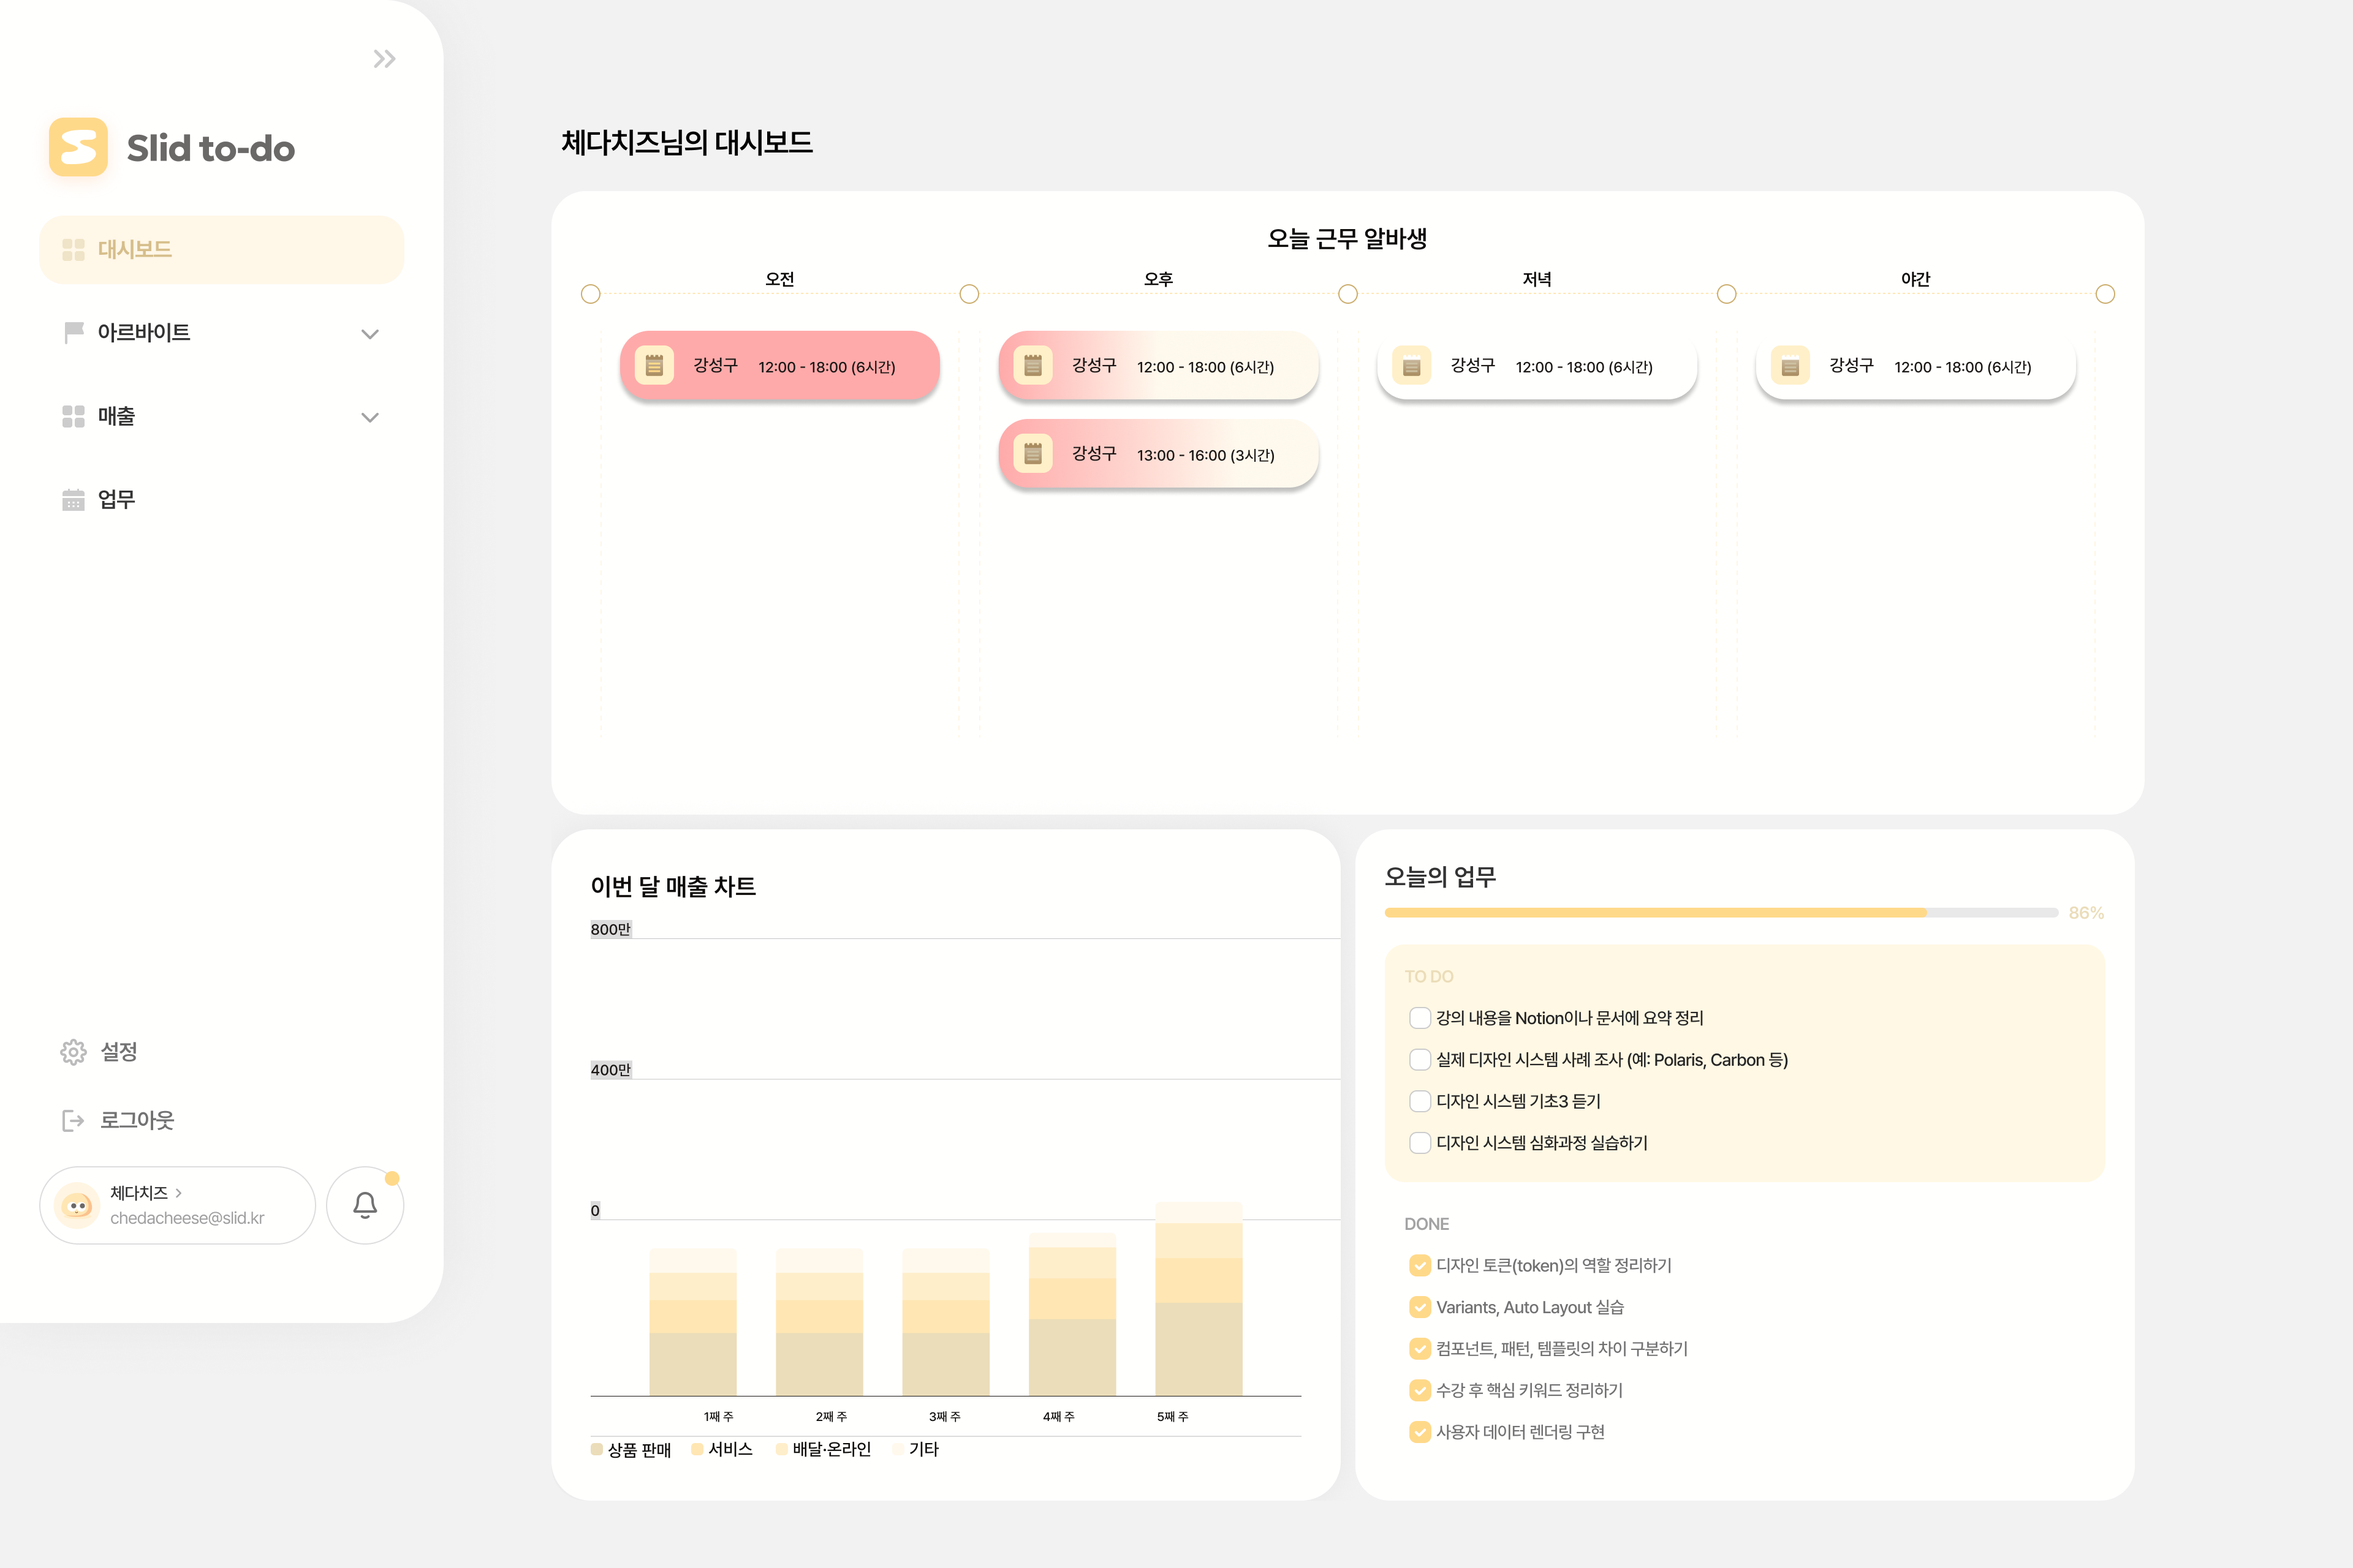
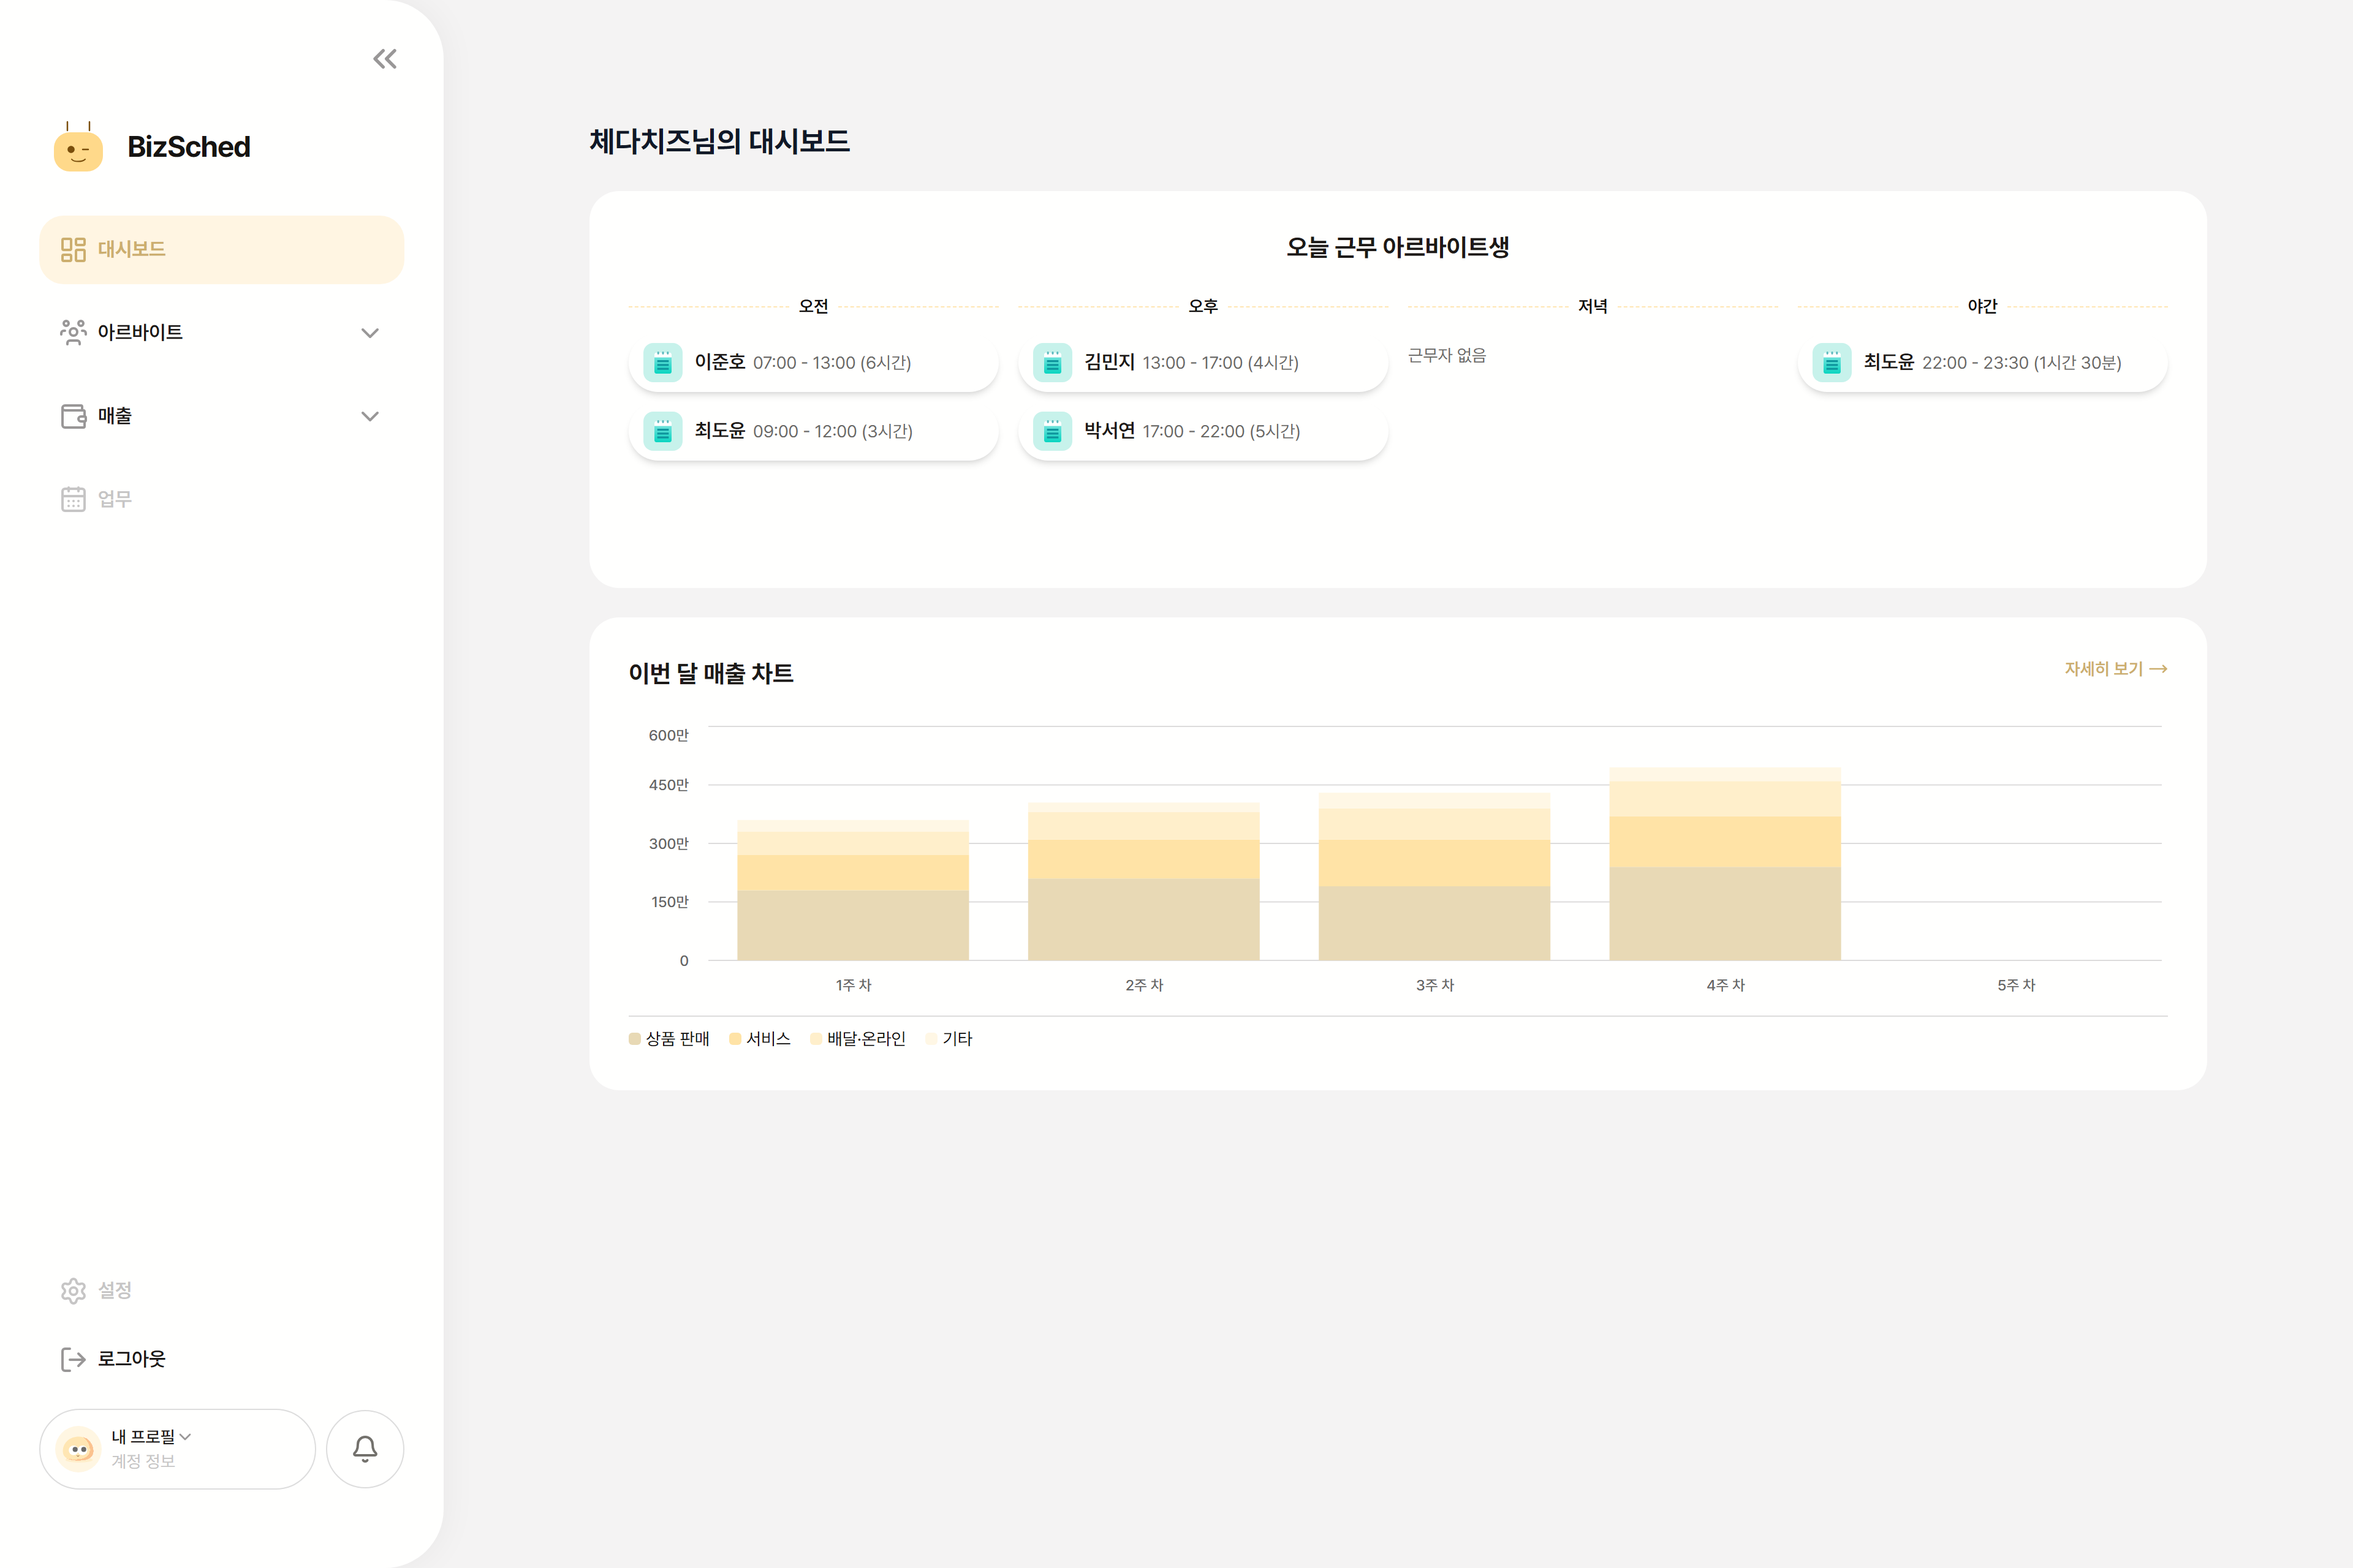
design: replace landing service screenshots and illustration #285
## 설명
랜딩 이미지에 남은 이전 로고와 낮은 해상도를 현재 앱 화면으로 교체했습니다.

## 변경 내용
- UI
  - 히어로 대시보드 이미지를 실제 /dashboard 화면(목 데이터)으로 재캡처
  - 특징 섹션 스케줄 이미지를 실제 /partTime/schedule 화면으로 고해상도 재캡처
  - 알림 섹션 일러스트를 PNG에서 SVG로 교체하고 unoptimized 적용
  - 시작 단계 섹션 등록 단계 설명 문구 수정

diff --git a/src/components/landing/NotificationSection/NotificationSection.tsx b/src/components/landing/NotificationSection/NotificationSection.tsx
@@ -3,7 +3,7 @@ import Image from 'next/image';
 import { cn } from '@lib/utilities/cn';
 import { typographyVariants } from '@lib/utilities/typography';
 
-import ImgNotification from '@assets/images/landing/img_notification.png';
+import ImgNotification from '@assets/images/landing/img_notification.svg';
 
 function NotificationSection() {
   return (
@@ -26,7 +26,7 @@ function NotificationSection() {
         <Image
           src={ImgNotification}
           alt=""
-          sizes="(max-width: 743px) 344px, 713px"
+          unoptimized
           className="mt-14 ml-[31px] h-auto w-[713px] max-tablet:mt-7 max-tablet:ml-[18px] max-tablet:w-[344px]"
         />
       </div>

diff --git a/src/components/landing/StepSection/StepSection.tsx b/src/components/landing/StepSection/StepSection.tsx
@@ -11,7 +11,7 @@ const STEPS = [
   {
     icon: ImgStepRegister,
     title: '아르바이트생\n등록하기',
-    description: '이름과 연락처만 입력하면\n바로 시작할 수 있어요',
+    description: '이름, 연락처만 입력하면\n바로 시작할 수 있어요',
   },
   {
     icon: ImgStepDocument,
